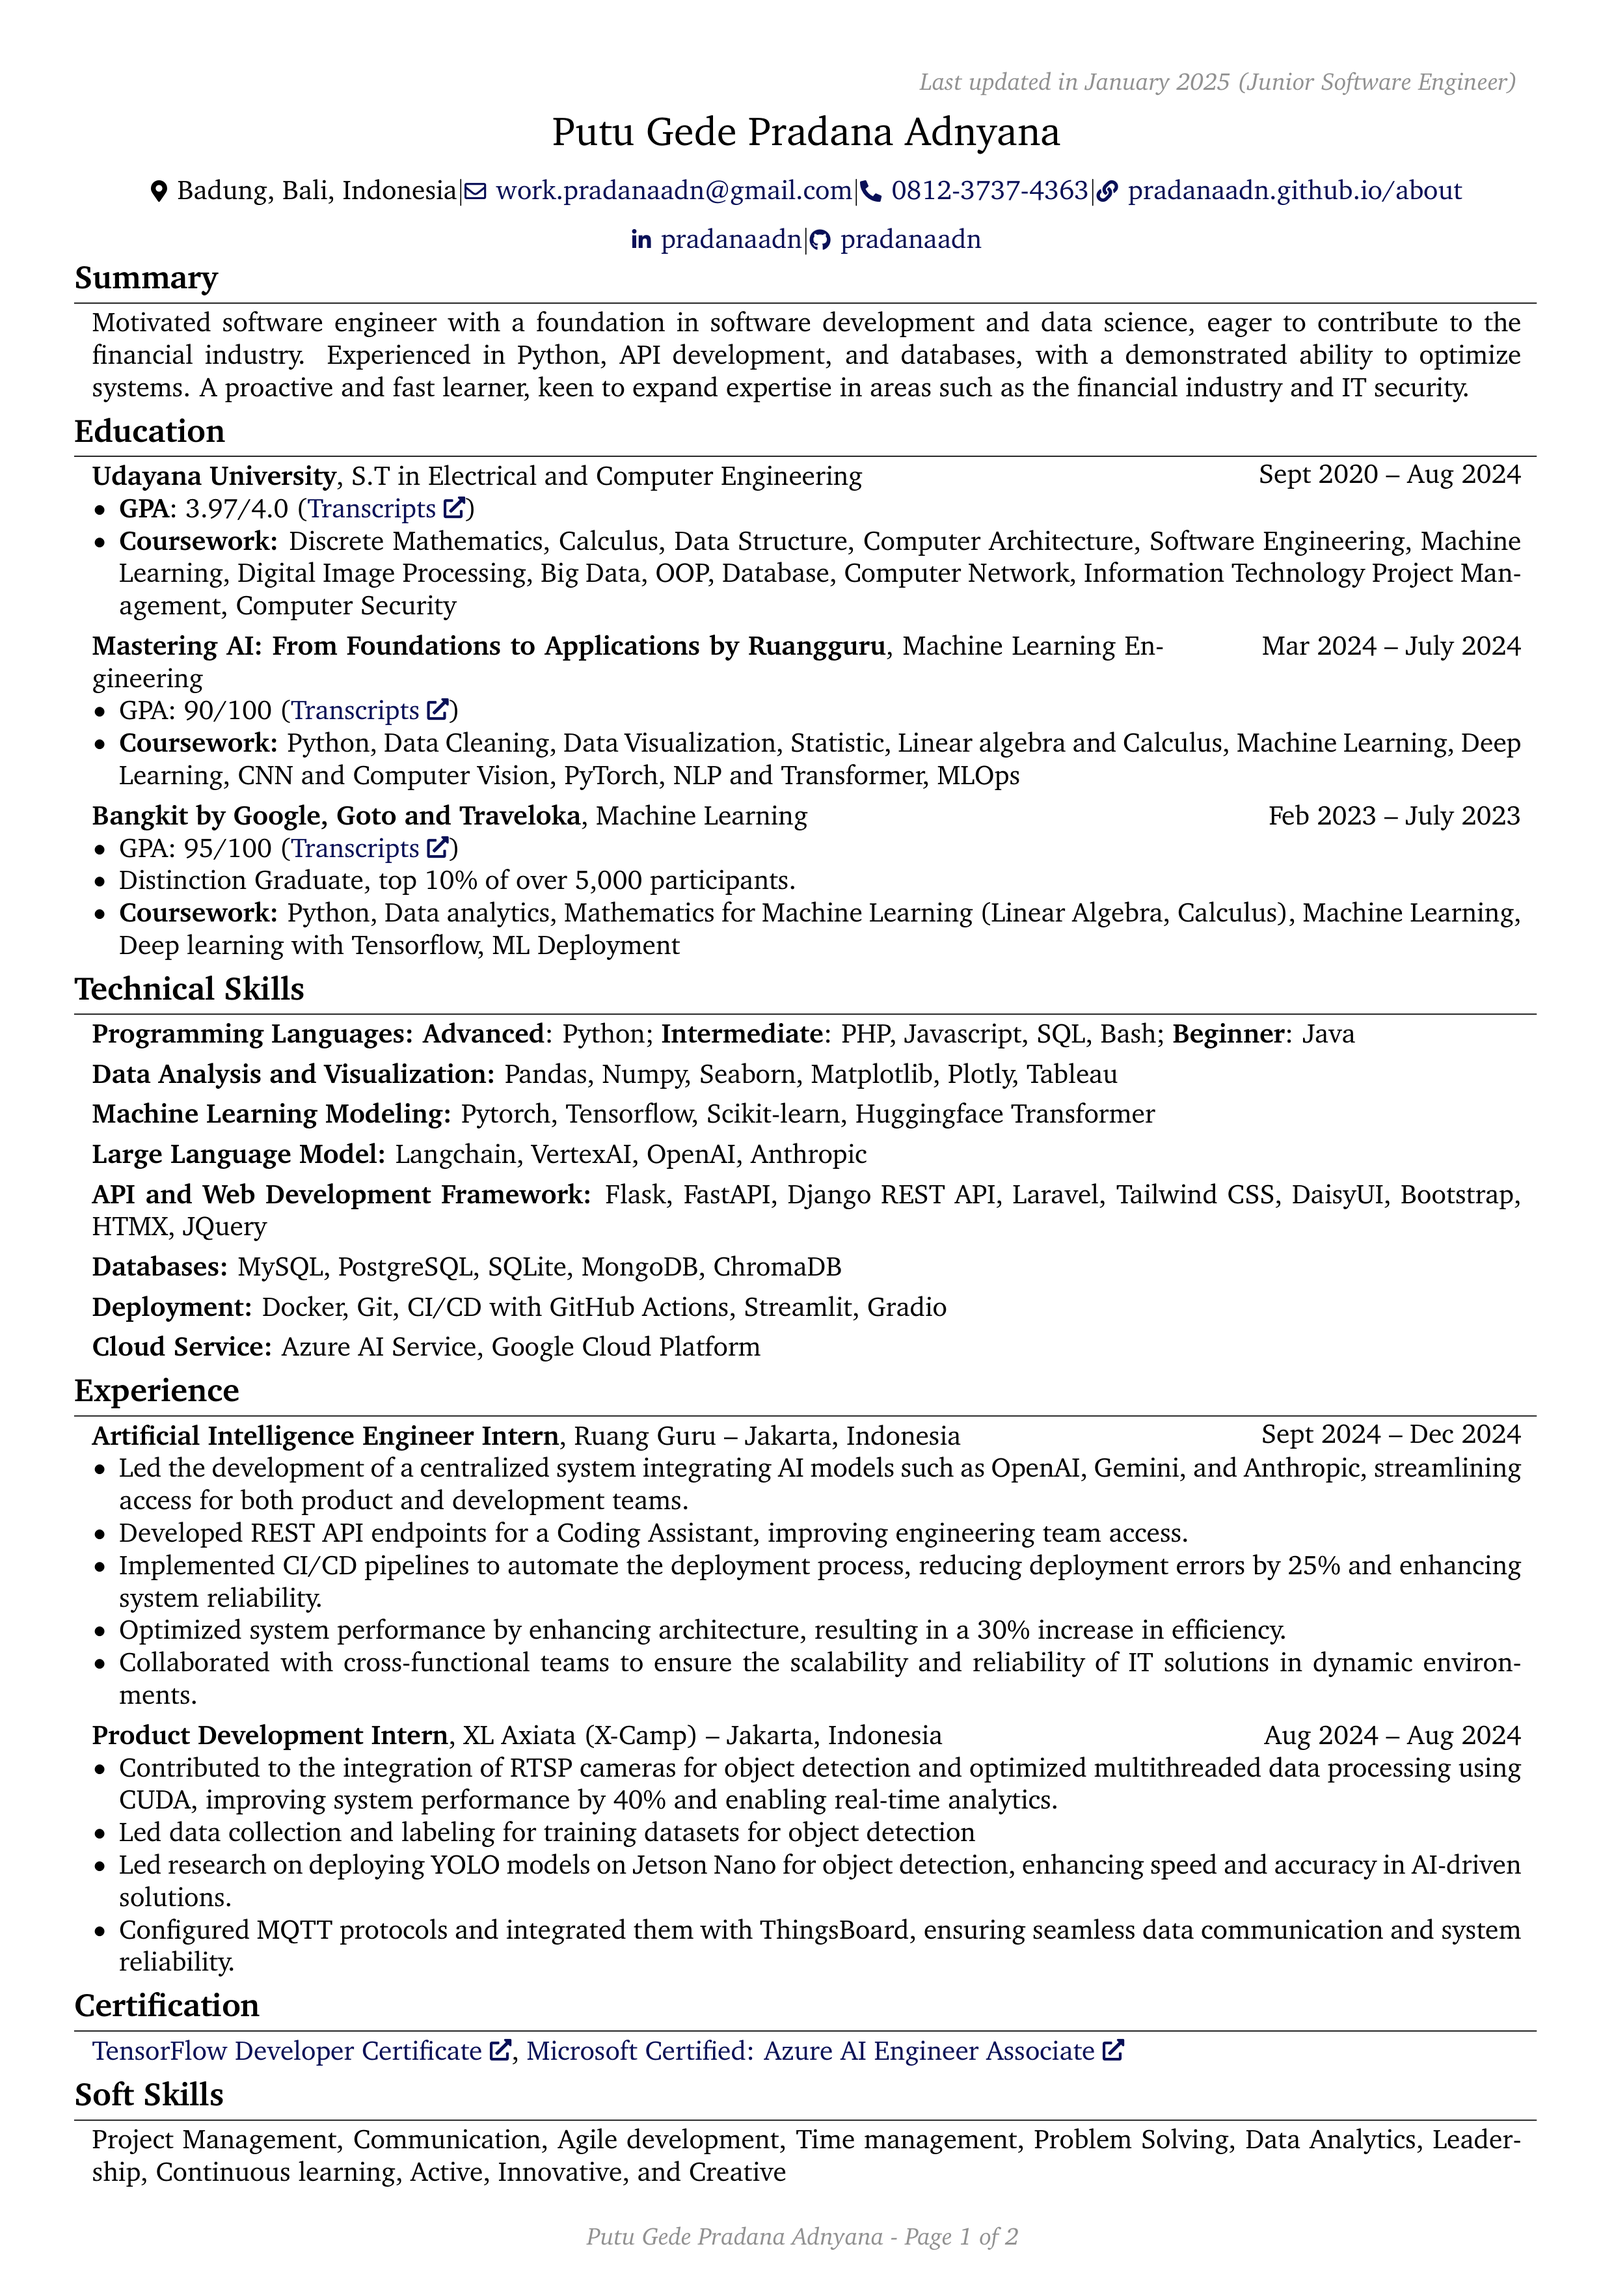
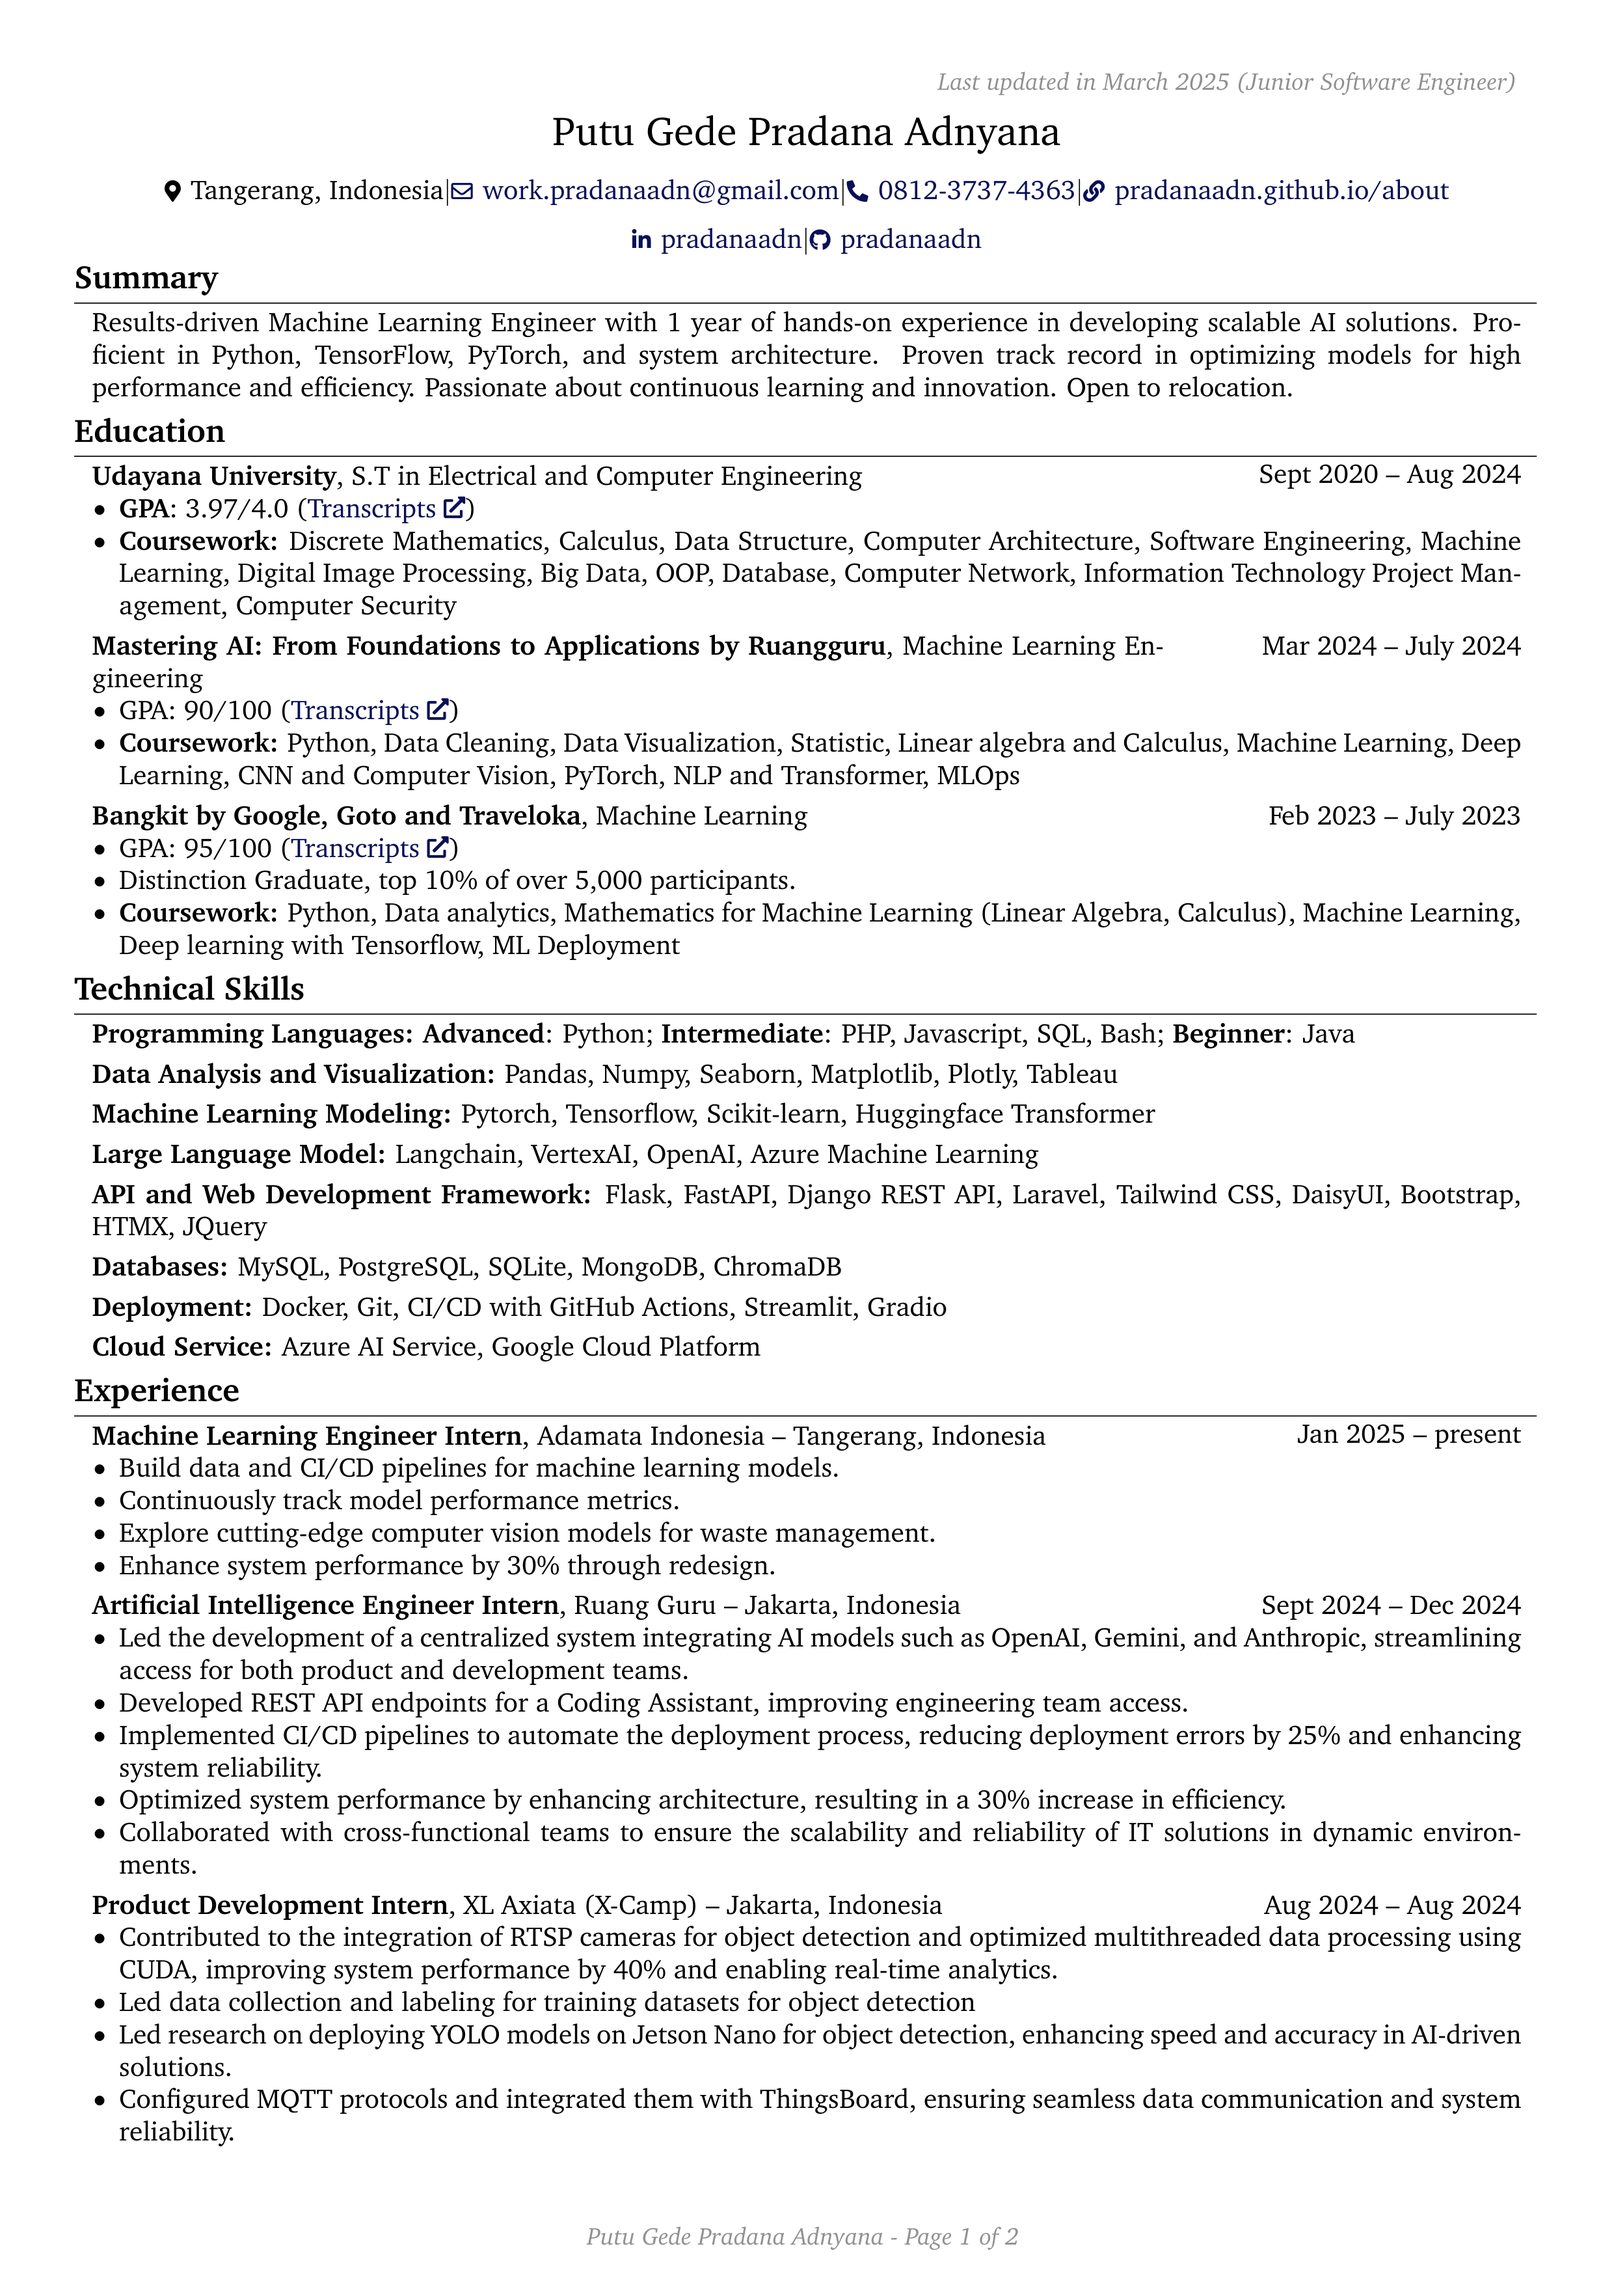
update: revise CV details and add new internship experience

diff --git a/rendercv_output/Putu_Gede_Pradana_Adnyana_CV.html b/rendercv_output/Putu_Gede_Pradana_Adnyana_CV.html
@@ -35,13 +35,13 @@
         <ul>
         <li>Phone: +62 812 3737 4363</li>
         <li>Email: <a href="mailto:work.pradanaadn@gmail.com">work.pradanaadn@gmail.com</a></li>
-        <li>Location: Badung, Bali, Indonesia</li>
+        <li>Location: Tangerang, Indonesia</li>
         <li>Website: <a href="https://pradanaadn.github.io/about/">pradanaadn.github.ioabout</a></li>
         <li>LinkedIn: <a href="https://linkedin.com/in/pradanaadn">pradanaadn</a></li>
         <li>GitHub: <a href="https://github.com/pradanaadn">pradanaadn</a></li>
         </ul>
         <h1>Summary</h1>
-        <p>Motivated software engineer with a foundation in software development and data science, eager to contribute to the financial industry. Experienced in Python, API development, and databases, with a demonstrated ability to optimize systems. A proactive and fast learner, keen to expand expertise in areas such as the financial industry and IT security.</p>
+        <p>Results-driven Machine Learning Engineer with 1 year of hands-on experience in developing scalable AI solutions. Proficient in Python, TensorFlow, PyTorch, and system architecture. Proven track record in optimizing models for high performance and efficiency. Passionate about continuous learning and innovation. Open to relocation.</p>
         <h1>Education</h1>
         <h2>Udayana University, S.T in Electrical and Computer Engineering</h2>
         <ul>
@@ -67,13 +67,22 @@
         <li>Programming Languages: <strong>Advanced</strong>: Python; <strong>Intermediate</strong>: PHP, Javascript, SQL, Bash; <strong>Beginner</strong>: Java</li>
         <li>Data Analysis and Visualization: Pandas, Numpy, Seaborn, Matplotlib, Plotly, Tableau</li>
         <li>Machine Learning Modeling: Pytorch, Tensorflow, Scikit-learn, Huggingface Transformer</li>
-        <li>Large Language Model: Langchain, VertexAI, OpenAI, Anthropic</li>
+        <li>Large Language Model: Langchain, VertexAI, OpenAI, Azure Machine Learning</li>
         <li>API and Web Development Framework: Flask, FastAPI, Django REST API, Laravel, Tailwind CSS, DaisyUI, Bootstrap, HTMX, JQuery</li>
         <li>Databases: MySQL, PostgreSQL, SQLite, MongoDB, ChromaDB</li>
         <li>Deployment: Docker, Git, CI/CD with GitHub Actions, Streamlit, Gradio</li>
         <li>Cloud Service: Azure AI Service, Google Cloud Platform</li>
         </ul>
         <h1>Experience</h1>
+        <h2>Adamata Indonesia, Machine Learning Engineer Intern</h2>
+        <ul>
+        <li>Jan 2025 – present</li>
+        <li>Tangerang, Indonesia</li>
+        <li>Build data and CI/CD pipelines for machine learning models.</li>
+        <li>Continuously track model performance metrics.</li>
+        <li>Explore cutting-edge computer vision models for waste management.</li>
+        <li>Enhance system performance by 30% through redesign.</li>
+        </ul>
         <h2>Ruang Guru, Artificial Intelligence Engineer Intern</h2>
         <ul>
         <li>Sept 2024 – Dec 2024</li>

diff --git a/rendercv_output/Putu_Gede_Pradana_Adnyana_CV.tex b/rendercv_output/Putu_Gede_Pradana_Adnyana_CV.tex
@@ -145,7 +145,7 @@
         \LenToUnit{\paperwidth-1cm-0.2cm+0.05cm},
         \LenToUnit{\paperheight-0.75 cm}
     ){\vtop{{\null}\makebox[0pt][c]{
-        \small\color{gray}\textit{Last updated in January 2025 (Junior Software Engineer)}\hspace{\widthof{Last updated in January 2025 (Junior Software Engineer)}}
+        \small\color{gray}\textit{Last updated in March 2025 (Junior Software Engineer)}\hspace{\widthof{Last updated in March 2025 (Junior Software Engineer)}}
     }}}%
   }%
 }%
@@ -172,7 +172,7 @@
         \vspace{2pt}
 
         \normalsize
-        \mbox{{\footnotesize\faMapMarker*}\hspace*{0.13cm}Badung, Bali, Indonesia}%
+        \mbox{{\footnotesize\faMapMarker*}\hspace*{0.13cm}Tangerang, Indonesia}%
         \kern 0.0 pt%
         \AND%
         \kern 0.0 pt%
@@ -204,7 +204,7 @@
 
         
         \begin{onecolentry}
-            Motivated software engineer with a foundation in software development and data science, eager to contribute to the financial industry. Experienced in Python, API development, and databases, with a demonstrated ability to optimize systems. A proactive and fast learner, keen to expand expertise in areas such as the financial industry and IT security.
+            Results-driven Machine Learning Engineer with 1 year of hands-on experience in developing scalable AI solutions. Proficient in Python, TensorFlow, PyTorch, and system architecture. Proven track record in optimizing models for high performance and efficiency. Passionate about continuous learning and innovation. Open to relocation.
         \end{onecolentry}
 
 
@@ -287,7 +287,7 @@
         \vspace{0.1cm}
 
         \begin{onecolentry}
-            \textbf{Large Language Model:} Langchain, VertexAI, OpenAI, Anthropic
+            \textbf{Large Language Model:} Langchain, VertexAI, OpenAI, Azure Machine Learning
         \end{onecolentry}
 
         \vspace{0.1cm}
@@ -321,6 +321,24 @@
 
 
         
+        \begin{twocolentry}{
+            Jan 2025 – present
+        }
+            \textbf{Machine Learning Engineer Intern}, Adamata Indonesia -- Tangerang, Indonesia\end{twocolentry}
+
+        \vspace{0cm}
+        \begin{onecolentry}
+            \begin{highlights}
+                \item Build data and CI/CD pipelines for machine learning models.
+                \item Continuously track model performance metrics.
+                \item Explore cutting-edge computer vision models for waste management.
+                \item Enhance system performance by 30\% through redesign.
+            \end{highlights}
+        \end{onecolentry}
+
+
+        \vspace{0.1cm}
+
         \begin{twocolentry}{
             Sept 2024 – Dec 2024
         }

diff --git a/rendercv_output/Putu_Gede_Pradana_Adnyana_CV.md b/rendercv_output/Putu_Gede_Pradana_Adnyana_CV.md
@@ -2,7 +2,7 @@
 
 - Phone: +62 812 3737 4363
 - Email: [work.pradanaadn@gmail.com](mailto:work.pradanaadn@gmail.com)
-- Location: Badung, Bali, Indonesia
+- Location: Tangerang, Indonesia
 - Website: [pradanaadn.github.ioabout](https://pradanaadn.github.io/about/)
 - LinkedIn: [pradanaadn](https://linkedin.com/in/pradanaadn)
 - GitHub: [pradanaadn](https://github.com/pradanaadn)
@@ -10,7 +10,7 @@
 
 # Summary
 
-Motivated software engineer with a foundation in software development and data science, eager to contribute to the financial industry. Experienced in Python, API development, and databases, with a demonstrated ability to optimize systems. A proactive and fast learner, keen to expand expertise in areas such as the financial industry and IT security.
+Results-driven Machine Learning Engineer with 1 year of hands-on experience in developing scalable AI solutions. Proficient in Python, TensorFlow, PyTorch, and system architecture. Proven track record in optimizing models for high performance and efficiency. Passionate about continuous learning and innovation. Open to relocation.
 
 # Education
 
@@ -38,12 +38,21 @@ Motivated software engineer with a foundation in software development and data s
 - Programming Languages: **Advanced**: Python; **Intermediate**: PHP, Javascript, SQL, Bash; **Beginner**: Java
 - Data Analysis and Visualization: Pandas, Numpy, Seaborn, Matplotlib, Plotly, Tableau
 - Machine Learning Modeling: Pytorch, Tensorflow, Scikit-learn, Huggingface Transformer
-- Large Language Model: Langchain, VertexAI, OpenAI, Anthropic
+- Large Language Model: Langchain, VertexAI, OpenAI, Azure Machine Learning
 - API and Web Development Framework: Flask, FastAPI, Django REST API, Laravel, Tailwind CSS, DaisyUI, Bootstrap, HTMX, JQuery
 - Databases: MySQL, PostgreSQL, SQLite, MongoDB, ChromaDB
 - Deployment: Docker, Git, CI/CD with GitHub Actions, Streamlit, Gradio
 - Cloud Service: Azure AI Service, Google Cloud Platform
 # Experience
+
+## Adamata Indonesia, Machine Learning Engineer Intern
+
+- Jan 2025 – present
+- Tangerang, Indonesia
+- Build data and CI/CD pipelines for machine learning models.
+- Continuously track model performance metrics.
+- Explore cutting-edge computer vision models for waste management.
+- Enhance system performance by 30% through redesign.
 
 ## Ruang Guru, Artificial Intelligence Engineer Intern
 
